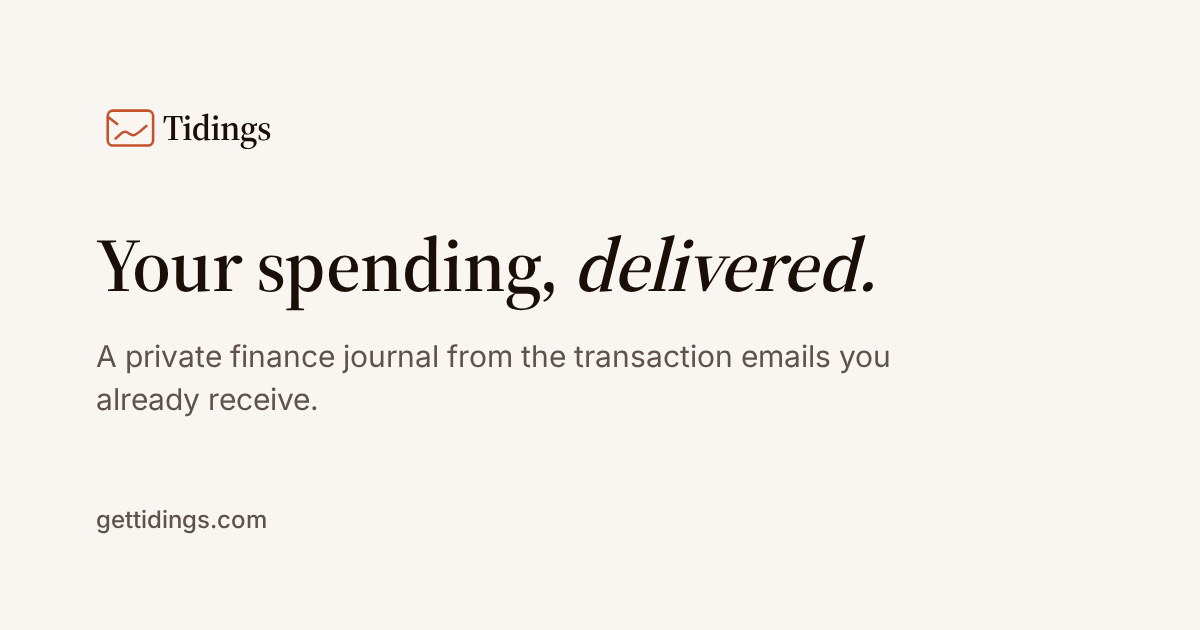
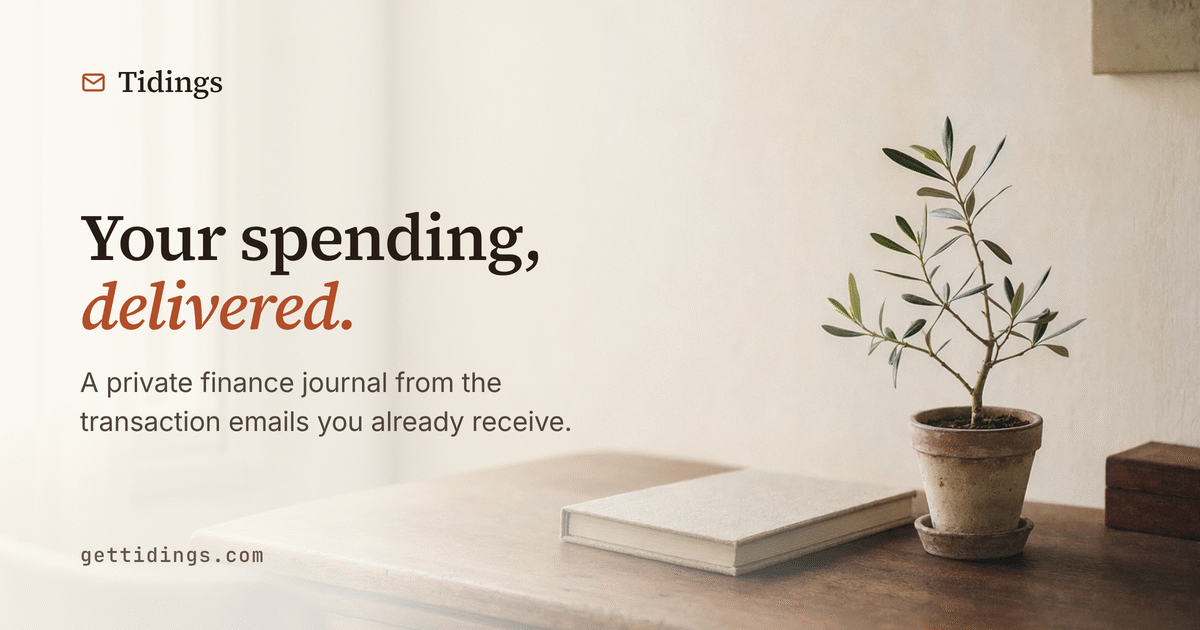
✨ feat(marketing): Illustrated social card from the olive-sapling scene
- The marketing og-image is now a photograph — an olive sapling and
  a linen notebook on a desk in morning light — with the wordmark,
  tagline, and subtitle composited as crisp text over the wall's
  negative space, replacing the flat text-only card.
- The card is a first-class generator output: the source photograph
  is checked in (scripts/media/assets/, q90 webp) and
  generate_og_images.ts renders the approved design from named
  recipe constants (crop framing, scrim stops, type scale), with
  font-load assertions and a DPR-2 supersample downscaled and
  quantized to a 327 KB 1200×630 PNG. Demo and docs cards are
  unchanged and regenerate byte-identically.

Changed files:
New: scripts/media/assets/og-desk-olive-notebook.webp
Modified: CHANGELOG.md, frontend/public/og-image.png, scripts/media/generate_og_images.ts

diff --git a/scripts/media/generate_og_images.ts b/scripts/media/generate_og_images.ts
@@ -1,28 +1,44 @@
 #!/usr/bin/env tsx
 /**
- * Generate the three 1200×630 social/OG cards from one flat, typographic
- * template (spec: docs/specs/00_open-source-migration/2026-07-05-web-surfaces-launch/):
+ * Generate the three 1200×630 social/OG cards:
  *
  *   - frontend/public/og-image.png            — marketing landing (gettidings.com)
  *   - frontend/public/demo-data/og-image.png  — demo SPA (gettidings.com/demo)
  *   - docs-site/public/og-image.png           — docs (docs.gettidings.com)
  *
- * Brand constraints (docs/brand/visual.md): warm-paper ground, left-aligned
- * type, no gradients, no shadows, no ornament. The wordmark lockup is inlined
- * from docs/brand/assets/logo-wordmark.svg — outlined to paths, so it renders
- * identically with zero font dependency. Headings load Source Serif 4 / Inter
- * from Google Fonts (same URL as frontend/index.html) with serif/sans
- * fallbacks so a failed fetch stays legible.
+ * The DEMO and DOCS cards share one flat, typographic template (spec:
+ * docs/specs/00_open-source-migration/2026-07-05-web-surfaces-launch/):
+ * warm-paper ground, left-aligned type, no gradients/shadows/ornament
+ * (docs/brand/visual.md). Their wordmark lockup is inlined from
+ * docs/brand/assets/logo-wordmark.svg (outlined to paths) and headings load
+ * Source Serif 4 / Inter from Google Fonts with serif/sans fallbacks.
+ *
+ * The MARKETING card is the illustrated hero (approved 2026-07-21 design):
+ * a full-bleed editorial photograph (a linen notebook + potted olive sapling
+ * on a wooden desk) under a left→right warm-ivory scrim, with the terracotta
+ * envelope wordmark, the serif "Your spending, delivered." headline, an Inter
+ * subtitle, and the monospaced domain. Its only binary source is the
+ * checked-in scripts/media/assets/og-desk-olive-notebook.webp (q90, 1536×1024);
+ * fonts are embedded from @fontsource so the render carries no network or
+ * origin dependency, and document.fonts assertions guard against a fallback.
+ * It is rendered at deviceScaleFactor 2 (supersample) and downscaled +
+ * 256-color-quantized with ImageMagick (`convert`, available in the dev
+ * environment) to keep the file well under the OG size budget.
  *
  * The committed PNGs are the artifact; this script is the reproducible
  * regen path. Regenerate:
  *   cd frontend && pnpm og:images
  */
 
-import { readFile, writeFile } from "node:fs/promises"
+import { execFile } from "node:child_process"
+import { mkdtemp, readFile, rm, writeFile } from "node:fs/promises"
 import { createRequire } from "node:module"
-import { dirname, resolve } from "node:path"
+import { tmpdir } from "node:os"
+import { dirname, join, resolve } from "node:path"
 import { fileURLToPath } from "node:url"
+import { promisify } from "node:util"
+
+const execFileAsync = promisify(execFile)
 
 const __filename = fileURLToPath(import.meta.url)
 const __dirname = dirname(__filename)
@@ -36,6 +52,8 @@ const { chromium } = requireFrontend("@playwright/test") as typeof import("@play
 const WIDTH = 1200
 const HEIGHT = 630
 
+// ── Flat template (demo + docs cards) ─────────────────────────────────────
+
 // Same font set the dashboard and marketing page load (frontend/index.html).
 const FONT_STYLESHEET =
   "https://fonts.googleapis.com/css2?family=Source+Serif+4:opsz,wght@8..60,400;8..60,500;8..60,600&family=Inter:wght@400;500;600;700&family=JetBrains+Mono:wght@400;500&display=swap"
@@ -45,7 +63,7 @@ const PAPER = "oklch(0.975 0.006 75)" // --popover / --muted
 const INK = "oklch(0.18 0.025 55)" // --foreground
 const MUTED_INK = "oklch(0.45 0.022 58)" // --fg-secondary
 
-type Card = {
+type FlatCard = {
   slug: string
   /** Heading HTML — <em> marks the marketing-typography italic exception. */
   heading: string
@@ -54,14 +72,7 @@ type Card = {
   out: string
 }
 
-const CARDS: Card[] = [
-  {
-    slug: "marketing",
-    heading: "Your spending, <em>delivered.</em>",
-    support: "A private finance journal from the transaction emails you already receive.",
-    domain: "gettidings.com",
-    out: resolve(REPO_ROOT, "frontend/public/og-image.png"),
-  },
+const FLAT_CARDS: FlatCard[] = [
   {
     slug: "demo",
     heading: "Your spending, <em>delivered.</em>",
@@ -78,7 +89,7 @@ const CARDS: Card[] = [
   },
 ]
 
-function cardHtml(wordmarkSvg: string, card: Card): string {
+function flatCardHtml(wordmarkSvg: string, card: FlatCard): string {
   return `<!doctype html>
 <html>
   <head>
@@ -141,6 +152,253 @@ function cardHtml(wordmarkSvg: string, card: Card): string {
 </html>`
 }
 
+// ── Illustrated marketing card (approved 2026-07-21 design) ────────────────
+//
+// Every constant below is the approved recipe. Origin: the sign-off card at
+// og-candidate/card.html + shoot.mjs (regular-spacing variant). Do not tune
+// these without a new design sign-off.
+
+const MARKETING_OUT = resolve(REPO_ROOT, "frontend/public/og-image.png")
+const MARKETING_PHOTO = resolve(REPO_ROOT, "scripts/media/assets/og-desk-olive-notebook.webp")
+
+// Photograph placement: source is 1536×1024; a 1536×804 window at top offset
+// 132 scales to 1200×630 (scale 0.78125). Implemented as a 1200×800 cover
+// image shifted up 103.125px (the same framing card.html used).
+const PHOTO_RENDER_W = 1200
+const PHOTO_RENDER_H = 800
+const PHOTO_SHIFT_UP = 103.125
+
+// Warm-ivory (#fbf8f1) left→right scrim protecting the text zone.
+const IVORY_RGB = "251, 248, 241"
+
+// Terracotta brand accent + ink hierarchy (oklch).
+const BRAND = "oklch(0.55 0.14 40)" // terracotta — italic headline word, envelope icon
+const M_INK = "oklch(0.24 0.02 55)"
+const M_SUB = "oklch(0.40 0.02 55)"
+const M_URL = "oklch(0.46 0.03 45)"
+
+// Supersample factor: render at DPR 2, then Lanczos-downscale + quantize.
+const MARKETING_DSF = 2
+
+// @fontsource woff2 faces the render must embed (data URIs) + document.fonts
+// assertions so a missing face fails loudly instead of falling back.
+const MARKETING_FONTS = [
+  {
+    family: "Source Serif 4",
+    weight: "200 900",
+    style: "normal",
+    file: "@fontsource-variable/source-serif-4/files/source-serif-4-latin-wght-normal.woff2",
+  },
+  {
+    family: "Source Serif 4",
+    weight: "200 900",
+    style: "italic",
+    file: "@fontsource-variable/source-serif-4/files/source-serif-4-latin-wght-italic.woff2",
+  },
+  {
+    family: "Inter",
+    weight: "400",
+    style: "normal",
+    file: "@fontsource/inter/files/inter-latin-400-normal.woff2",
+  },
+  {
+    family: "Inter",
+    weight: "500",
+    style: "normal",
+    file: "@fontsource/inter/files/inter-latin-500-normal.woff2",
+  },
+  {
+    family: "JetBrains Mono",
+    weight: "500",
+    style: "normal",
+    file: "@fontsource/jetbrains-mono/files/jetbrains-mono-latin-500-normal.woff2",
+  },
+] as const
+
+// Font faces the render asserts are loaded (no fallback): [CSS font shorthand, sample glyphs].
+const MARKETING_FONT_CHECKS: [string, string][] = [
+  ['500 30px "Source Serif 4"', "Tidings"],
+  ['560 66px "Source Serif 4"', "spending"],
+  ['italic 560 66px "Source Serif 4"', "delivered"],
+  ['400 27px "Inter"', "journal"],
+  ['500 20px "JetBrains Mono"', "gettidings"],
+]
+
+async function dataUri(path: string, mime: string): Promise<string> {
+  const buf = await readFile(path)
+  return `data:${mime};base64,${buf.toString("base64")}`
+}
+
+async function marketingCardHtml(): Promise<string> {
+  const nodeModules = resolve(REPO_ROOT, "frontend/node_modules")
+  const fontFaces = (
+    await Promise.all(
+      MARKETING_FONTS.map(async (f) => {
+        const uri = await dataUri(join(nodeModules, f.file), "font/woff2")
+        return `@font-face {
+  font-family: "${f.family}"; font-weight: ${f.weight}; font-style: ${f.style};
+  font-display: block; src: url("${uri}") format("woff2");
+}`
+      })
+    )
+  ).join("\n")
+  const photoUri = await dataUri(MARKETING_PHOTO, "image/webp")
+
+  return `<!doctype html>
+<html lang="en">
+<head>
+<meta charset="utf-8" />
+<style>
+  ${fontFaces}
+  :root {
+    --brand: ${BRAND};
+    --ink:   ${M_INK};
+    --sub:   ${M_SUB};
+    --url:   ${M_URL};
+    --serif: "Source Serif 4", serif;
+    --sans:  "Inter", system-ui, sans-serif;
+    --mono:  "JetBrains Mono", ui-monospace, monospace;
+    --ivory: ${IVORY_RGB};
+  }
+  * { margin: 0; padding: 0; box-sizing: border-box; }
+  html, body { width: ${WIDTH}px; height: ${HEIGHT}px; }
+  body { -webkit-font-smoothing: antialiased; text-rendering: geometricPrecision; }
+  .stage {
+    position: relative;
+    width: ${WIDTH}px; height: ${HEIGHT}px;
+    overflow: hidden;
+    background: #efe9df;
+  }
+  .photo {
+    position: absolute; z-index: 0;
+    left: 0; top: -${PHOTO_SHIFT_UP}px;
+    width: ${PHOTO_RENDER_W}px; height: ${PHOTO_RENDER_H}px;
+    object-fit: cover; display: block;
+  }
+  .scrim {
+    position: absolute; inset: 0; z-index: 1; pointer-events: none;
+    background: linear-gradient(to right,
+      rgba(var(--ivory), 0.94) 0%,
+      rgba(var(--ivory), 0.86) 30%,
+      rgba(var(--ivory), 0.46) 52%,
+      rgba(var(--ivory), 0.00) 74%);
+  }
+  .copy {
+    position: absolute; z-index: 2;
+    left: 0; top: 0; bottom: 0;
+    display: flex; flex-direction: column;
+    padding: 62px 80px;
+    width: 720px;
+  }
+  .wm {
+    display: flex; align-items: center; gap: 11px;
+    font-family: var(--serif); font-weight: 500;
+    font-size: 30px; letter-spacing: -0.015em; color: var(--ink);
+  }
+  .wm svg { width: 27px; height: 27px; color: var(--brand); display: block; }
+  .mid { margin-top: auto; margin-bottom: auto; }
+  h1 {
+    font-family: var(--serif); font-weight: 560;
+    font-size: 66px; line-height: 1.05; letter-spacing: -0.02em;
+    color: var(--ink);
+  }
+  h1 em { font-style: italic; font-weight: 560; color: var(--brand); }
+  .sub {
+    margin-top: 22px;
+    font-family: var(--sans); font-weight: 400;
+    font-size: 27px; line-height: 1.42; letter-spacing: -0.005em;
+    color: var(--sub); max-width: 540px;
+  }
+  .url {
+    font-family: var(--mono); font-weight: 500;
+    font-size: 20px; letter-spacing: 0.06em; color: var(--url);
+  }
+</style>
+</head>
+<body>
+  <div class="stage">
+    <img class="photo" src="${photoUri}" alt="" />
+    <div class="scrim"></div>
+    <div class="copy">
+      <span class="wm">
+        <svg viewBox="0 0 24 24" fill="none" stroke="currentColor" stroke-width="2" stroke-linecap="round" stroke-linejoin="round" aria-hidden="true"><rect x="3" y="5" width="18" height="14" rx="2"/><path d="m3 7 9 6 9-6"/></svg>
+        Tidings
+      </span>
+      <div class="mid">
+        <h1>Your spending, <em>delivered.</em></h1>
+        <p class="sub">A private finance journal from the transaction emails you already receive.</p>
+      </div>
+      <span class="url">gettidings.com</span>
+    </div>
+  </div>
+</body>
+</html>`
+}
+
+/**
+ * Downscale a DPR-2 supersample to 1200×630 and reduce to a 256-color palette
+ * with Floyd–Steinberg dithering. Uses ImageMagick's `convert` (available in
+ * the dev environment) — the same steps the approved shoot.mjs recipe used to
+ * land the card at ~330 KB.
+ */
+async function downscaleAndQuantize(supersample: Buffer, outPath: string): Promise<void> {
+  const dir = await mkdtemp(join(tmpdir(), "og-marketing-"))
+  const src = join(dir, "supersample.png")
+  try {
+    await writeFile(src, supersample)
+    await execFileAsync("convert", [
+      src,
+      "-filter",
+      "Lanczos",
+      "-resize",
+      `${WIDTH}x${HEIGHT}`,
+      "-dither",
+      "FloydSteinberg",
+      "-colors",
+      "256",
+      "-strip",
+      outPath,
+    ])
+  } finally {
+    await rm(dir, { recursive: true, force: true })
+  }
+}
+
+async function renderMarketingCard(browser: import("@playwright/test").Browser): Promise<void> {
+  const context = await browser.newContext({
+    viewport: { width: WIDTH, height: HEIGHT },
+    deviceScaleFactor: MARKETING_DSF,
+    colorScheme: "light",
+  })
+  try {
+    const page = await context.newPage()
+    await page.setContent(await marketingCardHtml(), { waitUntil: "networkidle" })
+    await page.evaluate(() => document.fonts.ready)
+
+    const fontsOk = await page.evaluate((checks) => {
+      return checks.every(([font, sample]) => document.fonts.check(font, sample))
+    }, MARKETING_FONT_CHECKS)
+    if (!fontsOk) {
+      throw new Error("Marketing card font check failed — a face did not load (fallback risk).")
+    }
+
+    // Settle two frames so webfont metrics + the photo are painted before capture.
+    await page.evaluate(
+      () => new Promise((r) => requestAnimationFrame(() => requestAnimationFrame(r)))
+    )
+
+    const supersample = await page.screenshot({
+      type: "png",
+      clip: { x: 0, y: 0, width: WIDTH, height: HEIGHT },
+    })
+    await downscaleAndQuantize(supersample, MARKETING_OUT)
+    const { size } = await readFile(MARKETING_OUT).then((b) => ({ size: b.byteLength }))
+    console.log(`  [ok] marketing -> ${MARKETING_OUT} (${(size / 1024).toFixed(0)} KB)`)
+  } finally {
+    await context.close()
+  }
+}
+
 async function main(): Promise<void> {
   const wordmarkSvg = await readFile(
     resolve(REPO_ROOT, "docs/brand/assets/logo-wordmark.svg"),
@@ -149,6 +407,10 @@ async function main(): Promise<void> {
 
   const browser = await chromium.launch()
   try {
+    // Illustrated marketing card (its own DPR-2 context + ImageMagick post).
+    await renderMarketingCard(browser)
+
+    // Flat demo + docs cards (shared DPR-1 template).
     const context = await browser.newContext({
       viewport: { width: WIDTH, height: HEIGHT },
       deviceScaleFactor: 1,
@@ -156,8 +418,8 @@ async function main(): Promise<void> {
     })
     const page = await context.newPage()
 
-    for (const card of CARDS) {
-      await page.setContent(cardHtml(wordmarkSvg, card), { waitUntil: "networkidle" })
+    for (const card of FLAT_CARDS) {
+      await page.setContent(flatCardHtml(wordmarkSvg, card), { waitUntil: "networkidle" })
       await page.evaluate(() => document.fonts.ready)
       const png = await page.screenshot({ type: "png", fullPage: false })
       await writeFile(card.out, png)

diff --git a/CHANGELOG.md b/CHANGELOG.md
@@ -22,7 +22,9 @@ This project follows [Semantic Versioning](https://semver.org/).
 - Marketing landing: the closing olive-tree photograph now reaches up to the
   FAQ's last question and stays put when an answer opens (the text slides over
   the scene instead of pushing it), the demo subtitle says the demo runs in
-  your browser, and the footer theme control is a quiet three-icon row.
+  your browser, and the footer theme control is a quiet three-icon row. The
+  social-share card is now an illustrated scene — an olive sapling and a
+  notebook in morning light — instead of a text-only card.
 
 ## [0.1.0] — 2026-07-21
 
